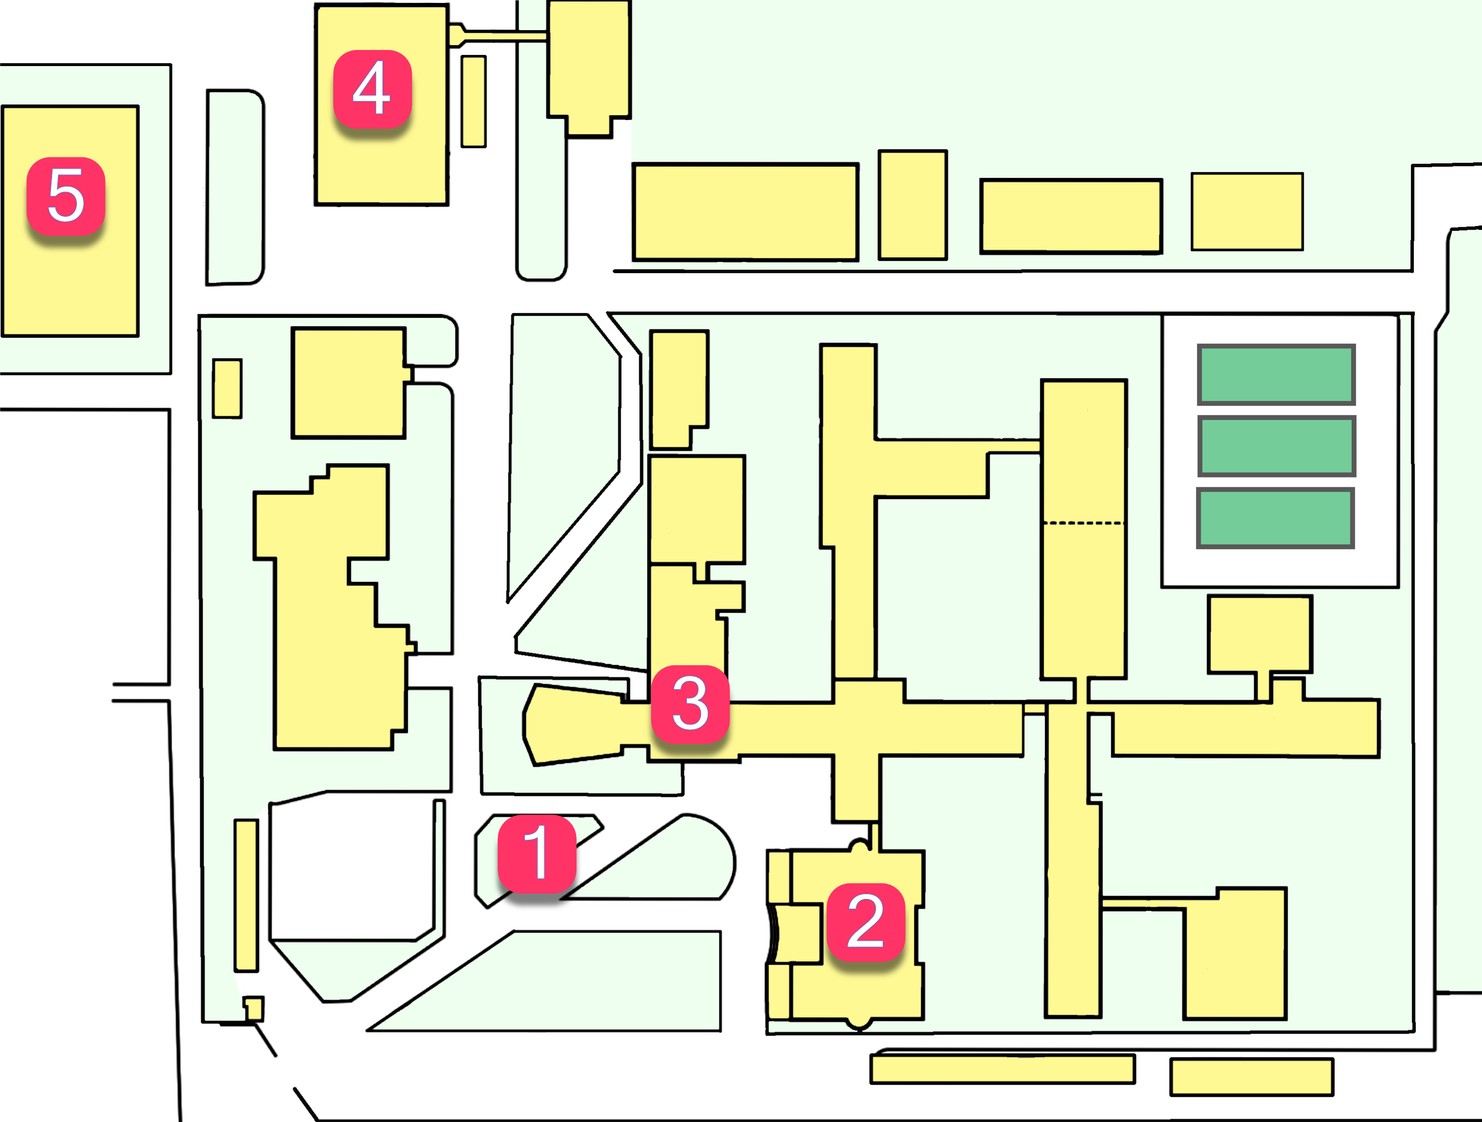
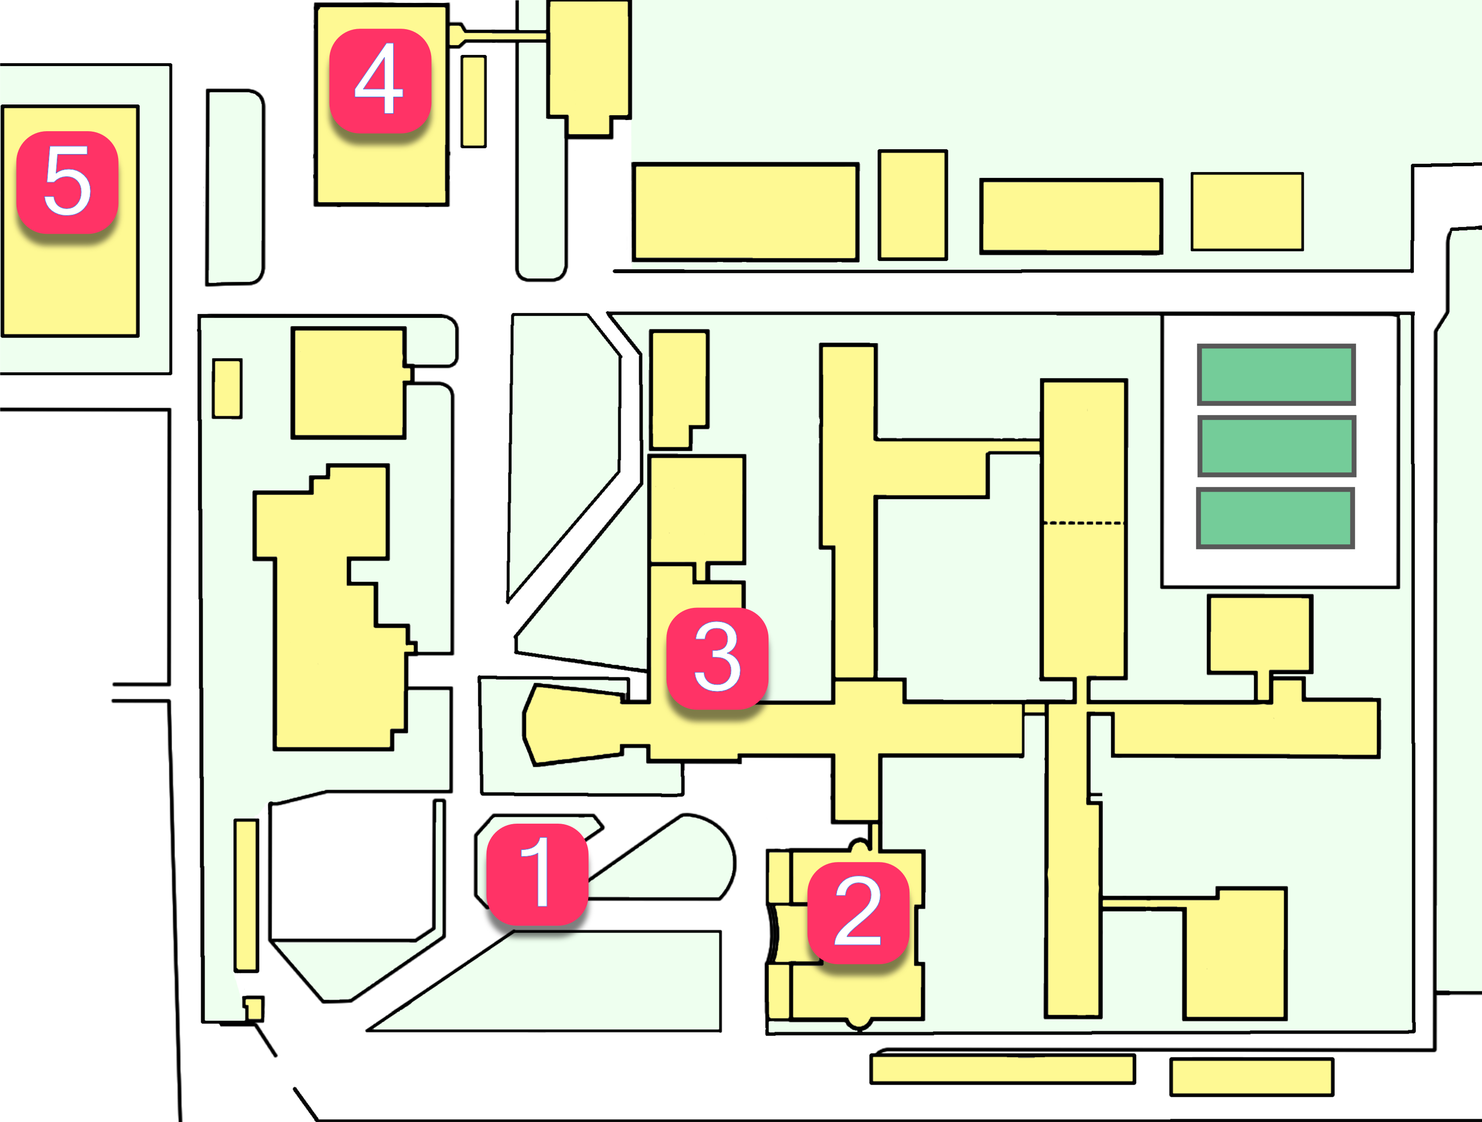
機能途中

diff --git a/plan.html b/plan.html
@@ -19,6 +19,8 @@
     <script src="https://cdnjs.cloudflare.com/ajax/libs/jquery-easing/1.4.1/jquery.easing.min.js"></script>
     <script src="https://cdnjs.cloudflare.com/ajax/libs/jquery-throttle-debounce/1.1/jquery.ba-throttle-debounce.js"></script>
     <script src="http://code.jquery.com/ui/1.10.3/jquery-ui.min.js"></script>
+    <script type="text/javascript" src="https://cdnjs.cloudflare.com/ajax/libs/jQuery-rwdImageMaps/1.6/jquery.rwdImageMaps.min.js"></script>
+
     
 </head>
 <body>
@@ -69,40 +71,45 @@
                 <div class="screen_map pannel" id="map">
                     <div class="map_headline"><h1>全体マップ</h1></div>
                     <div class="maptemp">
-                        
-                        <img src="./image/campus.jpg"  alt="企画マップの全体図" style="max-height: 610px;"/>
-                        
+                    <img src="./image/campus.jpg" usemap="#ImageMap" alt="企画マップの全体図" style="max-height: 610px;"/>
+                    <map name="ImageMap">
+                        <area shape="rect" coords="652,11,920,429" href="#taiiku1" alt="" />
+                        <area shape="rect" coords="4,218,281,691" href="#taiiku2" alt="" />
+                        <area shape="rect" coords="1258,1127,1703,1585" href="#kyouikuka1" alt="" />
+                        <area shape="rect" coords="948,1650,1263,1966" href="#yatai" alt="" />
+                        <area shape="rect" coords="1580,1746,1926,2123" href="#senkouka1" alt="" />
+                    </map>
                     </div>
                     <div id="yatai" class="maptemp">
-                        <div class="map_headline"><h1><span class="Dnumber">1</span>　屋外</h1></div>
+                        <div class="map_headline" ><h1><span class="Dnumber">1</span>　屋外</h1></div>
                         <img src="./image/屋台.jpg" alt="" >
                         <ol id="outside">
-                            <li>カルスト珈琲</li>
-                            <li>フルーツキャンデーランド</li>    
-                            <li>WoodStock</li>    
-                            <li>タイ焼きショップスイミー</li>    
-                            <li>JK-café</li>    
-                            <li>豆屋２</li>    
-                            <li>Suzuki Lab</li>    
-                            <li>らあめん屋猛拳</li>    
-                            <li>#高専ワッフル</li>    
-                            <li>International kitchen</li>
-                            <li>ホットドッグ</li>
-                            <li>米屋のおにぎり</li>    
-                            <li>スイーツコンシェルジュが創るフレンチトースト</li>    
-                            <li>うちやなげやたのしめや 射的＆輪投げ</li>    
-                            <li>総合技研部 5-inch GaugeProject</li>    
+                            <li id="n1"><a href="#m1">カルスト珈琲</a></li>
+                            <li id="n2"><a href="#m2">フルーツキャンデーランド</a></li>    
+                            <li id="n3"><a href="#m3">WoodStock</a></li>    
+                            <li id="n4"><a href="#m4">タイ焼きショップスイミー</a></li>    
+                            <li id="n5"><a href="">JK-café</a></li>    
+                            <li id="n6"><a href="">豆屋２</a></li>    
+                            <li id="n7"><a href="">Suzuki Lab</a></li>    
+                            <li id="n8"><a href="">らあめん屋猛拳</a></li>    
+                            <li id="n9"><a href="">#高専ワッフル</a></li>    
+                            <li id="n10"><a href="">International kitchen</a></li>
+                            <li id="n11"><a href="">ホットドッグ</a></li>
+                            <li id="n12"><a href="">米屋のおにぎり</a></li>    
+                            <li id="n13"><a href="">スイーツコンシェルジュが創るフレンチトースト</a></li>    
+                            <li id="n14"><a href="">うちやなげやたのしめや 射的＆輪投げ</a></li>    
+                            <li id="n15"><a href="">総合技研部 5-inch GaugeProject</a></li>    
                         </ol>
                     </div>
                     
                     <div id="senkouka1" class="maptemp">
-                        <div class="map_headline"><h1><span class="Dnumber">2</span>　専攻科棟１階</h1></div>
+                        <div class="map_headline" ><h1><span class="Dnumber">2</span>　専攻科棟１階</h1></div>
                         <img src="./image/専攻科１階.jpg" alt="">
                         <ol>
-                                <li id="n20">OBO-TAPI：講義室 2</li>
-                                <li>アトリエひまわり</li>
-                                <li>ガンプラ展示会：講義室 1</li>
-                                <li id="n29">高専ロボコン参加ロボットの実演</li>
+                                <li id="n20"><a href="">OBO-TAPI：講義室 2</a></li>
+                                <li><a href="">アトリエひまわり</a></li>
+                                <li><a href="">ガンプラ展示会：講義室 1</a></li>
+                                <li id="n29"><a href="">高専ロボコン参加ロボットの実演</a></li>
                         </ol>
                     </div>
                     
@@ -111,57 +118,64 @@
                         <img src="./image/専攻科２階.jpg" alt="">
                         <ol>
                                 
-                                <li id="n25">頭文字 K</li>
-                                <li id="n292">高専ロボコン簡易ロボットによる体験型ゲーム</li>
+                                <li id="n25"><a href="">頭文字 K</a></li>
+                                <li id="n292"><a href="">高専ロボコン簡易ロボットによる体験型ゲーム</a></li>
                         </ol>
                     </div>
                     <div id="kyouikuka1" class="maptemp">
-                        <div class="map_headline"><h1>　教育科棟１階</h1></div>
+                        <div class="map_headline" ><h1><span class="Dnumber">3</span>　教育科棟１階</h1></div>
                         <img src="./image/教育科棟１階.jpg" alt="">
                         <ol>
-                                <li id="n17">マッチョ BAR</li>
-                                <li id="">喫茶処ちゃぐまっちゃ</li>
-                                <li id="n28">電算部ゲーム・デジタルアート展</li>
-                                <li id="n32">バザー</li>
+                                <li id="n17"><a href="">マッチョ BAR</a></li>
+                                <li id="n18"><a href="">喫茶処ちゃぐまっちゃ</a></li>
+                                <li id="n28"><a href="">電算部ゲーム・デジタルアート展</a></li>
+                                <li id="n32"><a href="">バザー</a></li>
                         </ol>
                     </div>
                     <div id="kyouikuka2" class="maptemp">
                         <div class="map_headline"><h1>　教育科棟２階</h1></div>
                         <img src="./image/教育科棟２階.jpg" alt="">
                         <ol>
-                                <li id="n16">カフェ Lab</li>
-                                <li id="n19">ITs</li>
-                                <li id="n27">昔ばなし「桃太郎」</li>
-                                <li id="n31">留学生会</li>
+                                <li id="n16"><a href="">カフェ Lab</a></li>
+                                <li id="n19"><a href="">ITs</a></li>
+                                <li id="n27"><a href="">昔ばなし「桃太郎」</a></li>
+                                <li id="n31"><a href="">留学生会</a></li>
                         </ol>
                     </div>
                     <div id="kyouikuka3" class="maptemp">
                         <div class="map_headline"><h1>　教育科棟３階</h1></div>
                         <img src="./image/教育科棟３階.jpg" alt="">
                         <ol>
-                                <li id="n23">倶楽部麻沙美</li>
-                                <li id="">3C お化け屋敷</li>
-                                <li id="n26">写真館 Fixious</li>
-                                <li id="n30">総合科学領域展示</li>
+                                <li id="n23"><a href="">倶楽部麻沙美</a></li>
+                                <li id=""><a href="">3C お化け屋敷</a></li>
+                                <li id="n26"><a href="">写真館 Fixious</a></li>
+                                <li id="n30"><a href="">総合科学領域展示</a></li>
                         </ol>
                     </div>
-                 
+                    <div id="taiiku1" class="maptemp">
+                        <div class="map_headline" ><h1><span class="Dnumber">4</span>　第一体育館</h1></div>
+                        <img src="./image/times.jpg" alt="">
+                    </div>
+                    <div id="taiiku2" class="maptemp">
+                        <div class="map_headline" ><h1><span class="Dnumber">5</span>　第二体育館</h1></div>
+                        <img src="./image/times.jpg" alt="">
+                    </div>
                 </div>
                 <!-- 企画一覧のとき-->
                 <div class="screen_list pannel" id="list">
                     <div class="list_backgroud">
-                        <plan-list imgurl="./image/posta.jpg" genre="展示" headline="㉘ゲーム＆デジタルアート展" text="電子計算機部が手がけたゲームとCGアートを展示中！未知の冒険とデジタルの夢、お楽しみください。" place="教育科棟1階　総合センター" href="#ff"></plan-list>
-                        <plan-list imgurl="./image/bananaposta.jpg" genre="屋台・ばなな" headline="⑲ばななや" text="ばななはおいしそうですね。ぜひいきましょう" place="メディアセンター前駐車場" href="#aa"></plan-list>
-                        <plan-list imgurl="./image/sugio.jpg" genre="領域展示" headline="⑧先生のなんかすごいやつ" text="なんか先生がultraスーパーすごいやつをつくったようなのでみてみてくだしあ" place="専攻科棟１階　２Mのとこ" href="#aa"></plan-list>
-                        <plan-list imgurl="./image/posta.jpg" genre="展示" headline="㉘ゲーム＆デジタルアート展" text="電子計算機部が手がけたゲームとCGアートを展示中！未知の冒険とデジタルの夢、お楽しみください。" place="教育科棟1階　総合センター" href="#ff"></plan-list>
-                        <plan-list imgurl="./image/bananaposta.jpg" genre="屋台・ばなな" headline="⑲ばななや" text="ばななはおいしそうですね。ぜひいきましょう" place="メディアセンター前駐車場" href="#aa"></plan-list>
-                        <plan-list imgurl="./image/sugio.jpg" genre="領域展示" headline="⑧先生のなんかすごいやつ" text="なんか先生がultraスーパーすごいやつをつくったようなのでみてみてくだしあ" place="専攻科棟１階　２Mのとこ" href="#aa"></plan-list>
-                        <plan-list imgurl="./image/posta.jpg" genre="展示" headline="㉘ゲーム＆デジタルアート展" text="電子計算機部が手がけたゲームとCGアートを展示中！未知の冒険とデジタルの夢、お楽しみください。" place="教育科棟1階　総合センター" href="#ff"></plan-list>
-                        <plan-list imgurl="./image/bananaposta.jpg" genre="屋台・ばなな" headline="⑲ばななや" text="ばななはおいしそうですね。ぜひいきましょう" place="メディアセンター前駐車場" href="#aa"></plan-list>
-                        <plan-list imgurl="./image/sugio.jpg" genre="領域展示" headline="⑧先生のなんかすごいやつ" text="なんか先生がultraスーパーすごいやつをつくったようなのでみてみてくだしあ" place="専攻科棟１階　２Mのとこ" href="#aa"></plan-list>
-                        <plan-list imgurl="./image/posta.jpg" genre="展示" headline="㉘ゲーム＆デジタルアート展" text="電子計算機部が手がけたゲームとCGアートを展示中！未知の冒険とデジタルの夢、お楽しみください。" place="教育科棟1階　総合センター" href="#ff"></plan-list>
-                        <plan-list imgurl="./image/bananaposta.jpg" genre="屋台・ばなな" headline="⑲ばななや" text="ばななはおいしそうですね。ぜひいきましょう" place="メディアセンター前駐車場" href="#aa"></plan-list>
-                        <plan-list imgurl="./image/sugio.jpg" genre="領域展示" headline="⑧先生のなんかすごいやつ" text="なんか先生がultraスーパーすごいやつをつくったようなのでみてみてくだしあ" place="専攻科棟１階　２Mのとこ" href="#aa"></plan-list>
+                        <plan-list id="m1" imgurl="./image/posta.jpg" genre="展示" headline="㉘ゲーム＆デジタルアート展" text="電子計算機部が手がけたゲームとCGアートを展示中！未知の冒険とデジタルの夢、お楽しみください。" place="教育科棟1階　総合センター" href="#n31"></plan-list>
+                        <plan-list id="m2" imgurl="./image/bananaposta.jpg" genre="屋台・ばなな" headline="⑲ばななや" text="ばななはおいしそうですね。ぜひいきましょう" place="メディアセンター前駐車場" href="#n2"></plan-list>
+                        <plan-list id="m3" imgurl="./image/sugio.jpg" genre="領域展示" headline="⑧先生のなんかすごいやつ" text="なんか先生がultraスーパーすごいやつをつくったようなのでみてみてくだしあ" place="専攻科棟１階　２Mのとこ" href="#n3"></plan-list>
+                        <plan-list id="m4" imgurl="./image/posta.jpg" genre="展示" headline="㉘ゲーム＆デジタルアート展" text="電子計算機部が手がけたゲームとCGアートを展示中！未知の冒険とデジタルの夢、お楽しみください。" place="教育科棟1階　総合センター" href="#n4"></plan-list>
+                        <plan-list id="m5" imgurl="./image/bananaposta.jpg" genre="屋台・ばなな" headline="⑲ばななや" text="ばななはおいしそうですね。ぜひいきましょう" place="メディアセンター前駐車場" href="#n5"></plan-list>
+                        <plan-list id="m6" imgurl="./image/sugio.jpg" genre="領域展示" headline="⑧先生のなんかすごいやつ" text="なんか先生がultraスーパーすごいやつをつくったようなのでみてみてくだしあ" place="専攻科棟１階　２Mのとこ" href="#n6"></plan-list>
+                        <plan-list id="m7" imgurl="./image/posta.jpg" genre="展示" headline="㉘ゲーム＆デジタルアート展" text="電子計算機部が手がけたゲームとCGアートを展示中！未知の冒険とデジタルの夢、お楽しみください。" place="教育科棟1階　総合センター" href="#n7"></plan-list>
+                        <plan-list id="m8" imgurl="./image/bananaposta.jpg" genre="屋台・ばなな" headline="⑲ばななや" text="ばななはおいしそうですね。ぜひいきましょう" place="メディアセンター前駐車場" href="#n8"></plan-list>
+                        <plan-list id="m9" imgurl="./image/sugio.jpg" genre="領域展示" headline="⑧先生のなんかすごいやつ" text="なんか先生がultraスーパーすごいやつをつくったようなのでみてみてくだしあ" place="専攻科棟１階　２Mのとこ" href="#n9"></plan-list>
+                        <plan-list id="m10" imgurl="./image/posta.jpg" genre="展示" headline="㉘ゲーム＆デジタルアート展" text="電子計算機部が手がけたゲームとCGアートを展示中！未知の冒険とデジタルの夢、お楽しみください。" place="教育科棟1階　総合センター" href="#n10"></plan-list>
+                        <plan-list id="m11" imgurl="./image/bananaposta.jpg" genre="屋台・ばなな" headline="⑲ばななや" text="ばななはおいしそうですね。ぜひいきましょう" place="メディアセンター前駐車場" href="#n11"></plan-list>
+                        <plan-list id="m12" imgurl="./image/sugio.jpg" genre="領域展示" headline="⑧先生のなんかすごいやつ" text="なんか先生がultraスーパーすごいやつをつくったようなのでみてみてくだしあ" place="専攻科棟１階　２Mのとこ" href="#n12"></plan-list>
                     </div>
                     
                 </div>

diff --git a/js/plan.js b/js/plan.js
@@ -1,7 +1,7 @@
    // スムーズスクロールの関数を定義
 function smoothScroll(targetId) {
     const targetElement = document.getElementById(targetId);
-
+    console.log(targetElement)
     if (targetElement) {
         window.scrollTo({
             top: targetElement.offsetTop,
@@ -13,20 +13,25 @@ function smoothScroll(targetId) {
 // ページ内リンクがクリックされたときにスムーズスクロールを実行
 document.querySelectorAll('area[href^="#"]').forEach(anchor => {
     anchor.addEventListener('click', function(e) {
+        
         e.preventDefault();
         const targetId = this.getAttribute('href').substring(1);
+        console.log(targetId);
         smoothScroll(targetId);
     });
 });
+$('img[usemap]').rwdImageMaps();
 document.querySelectorAll('a[href^="#"]').forEach(anchor => {
     anchor.addEventListener('click', function(e) {
         e.preventDefault();
         const targetId = this.getAttribute('href').substring(1);
         console.log(targetId);
-        if(targetId=="gd"){
+        var firstChar = targetId.charAt(0); // 最初の文字を取得
+        if(firstChar=="n"){
             showmap();
-            smoothScroll("media");
-        }else{
+            smoothScroll(targetId);
+        }else if(firstChar=="m"){
+            showlist();
             smoothScroll(targetId);
         }
         
@@ -94,9 +99,11 @@ window.addEventListener("load", () => {
   class plan_list extends HTMLElement { 
     constructor() {
       super();
-      // カスタム要素の中にシャドウDOMを接続する
-      this.attachShadow({ mode: "open" });
-    
+    }
+    connectedCallback(){
+        // カスタム要素の中にシャドウDOMを接続する
+      const shadow = this.attachShadow({ mode: 'open' });
+      
       // HTMLファイルで指定された属性を取り出し、初期表示に使用する
       const imgurl = this.getAttribute('imgurl') || 'unknown';
       const genre = this.getAttribute('genre') || 'unknown';
@@ -106,7 +113,7 @@ window.addEventListener("load", () => {
       const href = this.getAttribute('href') || 'unknown';
   
       // (1) このカスタム要素の文書構造を定義する
-      this.shadowRoot.innerHTML = `
+      shadow.innerHTML = `
       <style>
       .list_content{
         width: 350px;
@@ -186,11 +193,52 @@ window.addEventListener("load", () => {
             
             <h3>${text}</h3>
             <p>${place}</p>
-            <div style="width: 100%; text-align: center;"><a href="${href}" class="list_button">マップで確認　→</a></div>
+            <div style="width: 100%; text-align: center;"><a href="${href}" class="list_button" id="button">マップで確認　→</a></div>
         </div>
      </div>
       `;
+      const myElement = shadow.getElementById('button');
+        myElement.addEventListener('click', function(e)  {
+            e.preventDefault();
+            const targetId = this.getAttribute('href').substring(1);
+            console.log(targetId);
+            var firstChar = targetId.charAt(0); // 最初の文字を取得
+            if(firstChar=="n"){
+                showmap();
+                smoothScroll(targetId);
+            }else if(firstChar=="m"){
+                showlist();
+                smoothScroll(targetId);
+            }
+        })  ;
+    function showlist(){
+        $("#list-button").addClass("active");
+        $("#list-button").closest(".NAV").addClass("active");
+        $("#map-button").removeClass("active");
+        $("#map-button").closest(".NAV").removeClass("active");
+        $("#map").hide();
+        $("#list").show();
     }
-  }
+    function showmap(){
+        $("#map-button").addClass("active");
+        $("#map-button").closest(".NAV").addClass("active");
+        $("#list-button").removeClass("active");
+        $("#list-button").closest(".NAV").removeClass("active");
+        $("#list").hide();
+        $("#map").show();
+    }
+    function smoothScroll(targetId) {
+        const targetElement = document.getElementById(targetId);
+        console.log(targetElement)
+        if (targetElement) {
+            window.scrollTo({
+                top: targetElement.offsetTop,
+                behavior: 'smooth'
+            });
+        }
+    }
+    }
+      
+}
   
   customElements.define("plan-list", plan_list); 

diff --git a/css/plan.css b/css/plan.css
@@ -236,6 +236,7 @@ header .title{
     color: var(--header-color);
     width: 100vw;
     text-align: center;
+    padding: 3% 0;
 }
 .maptemp{
     max-width: 900px;
@@ -259,12 +260,12 @@ header .title{
     align-items: center;
   }
   .maptemp ol li{
-    width: 50%;
+    width: 70%;
     position:relative;
     margin: 7px 10px 7px 0px;
     padding-left:40px;
     font-weight: bold;
-    font-size:18px;
+    font-size:20px;
     line-height: 30px;
     border: solid 1px var(--main-color);
     border-radius:20px;
@@ -274,6 +275,11 @@ header .title{
     -ms-transition: 0.3s;
     transition: 0.3s;
   }
+  .maptemp ol li a{
+    color: var(--main-color);
+    width: 100%;
+  }
+  
   .maptemp ol li:before{
     counter-increment: list;
     content: counter(list);
@@ -297,6 +303,10 @@ header .title{
   #outside{
     height: 370px;
   }
+  #outside li{
+    width: 50%;
+    font-size: 18px;
+  }
   #n20::before{counter-increment: list 20; content: counter(list);}
   #n25::before{counter-increment: list 25; content: counter(list);}
   #n29::before{counter-reset: list 0; counter-increment: list 29; content: counter(list);}
@@ -318,6 +328,9 @@ header .title{
   .maptemp ol li:hover:before{
     background: #fff;
     color: var(--main-color);
+  }
+  .maptemp ol li:hover a{
+    color: white;
   }
 .map_headline{
     display: flex;
@@ -353,8 +366,6 @@ header .title{
     height: 60px;
     width: 60px;
 }
-#n1{top: 74%; left: 34%;}#n2{top: 78%; left: 56%;}#n3{top: 59%; left: 44%;}
-#n4{top: 4%; left: 23%;}#n5{top: 13%; left: 2%;}
 /* フッター */
 .copyright{
     background-color: var(--footer-color-deep);
